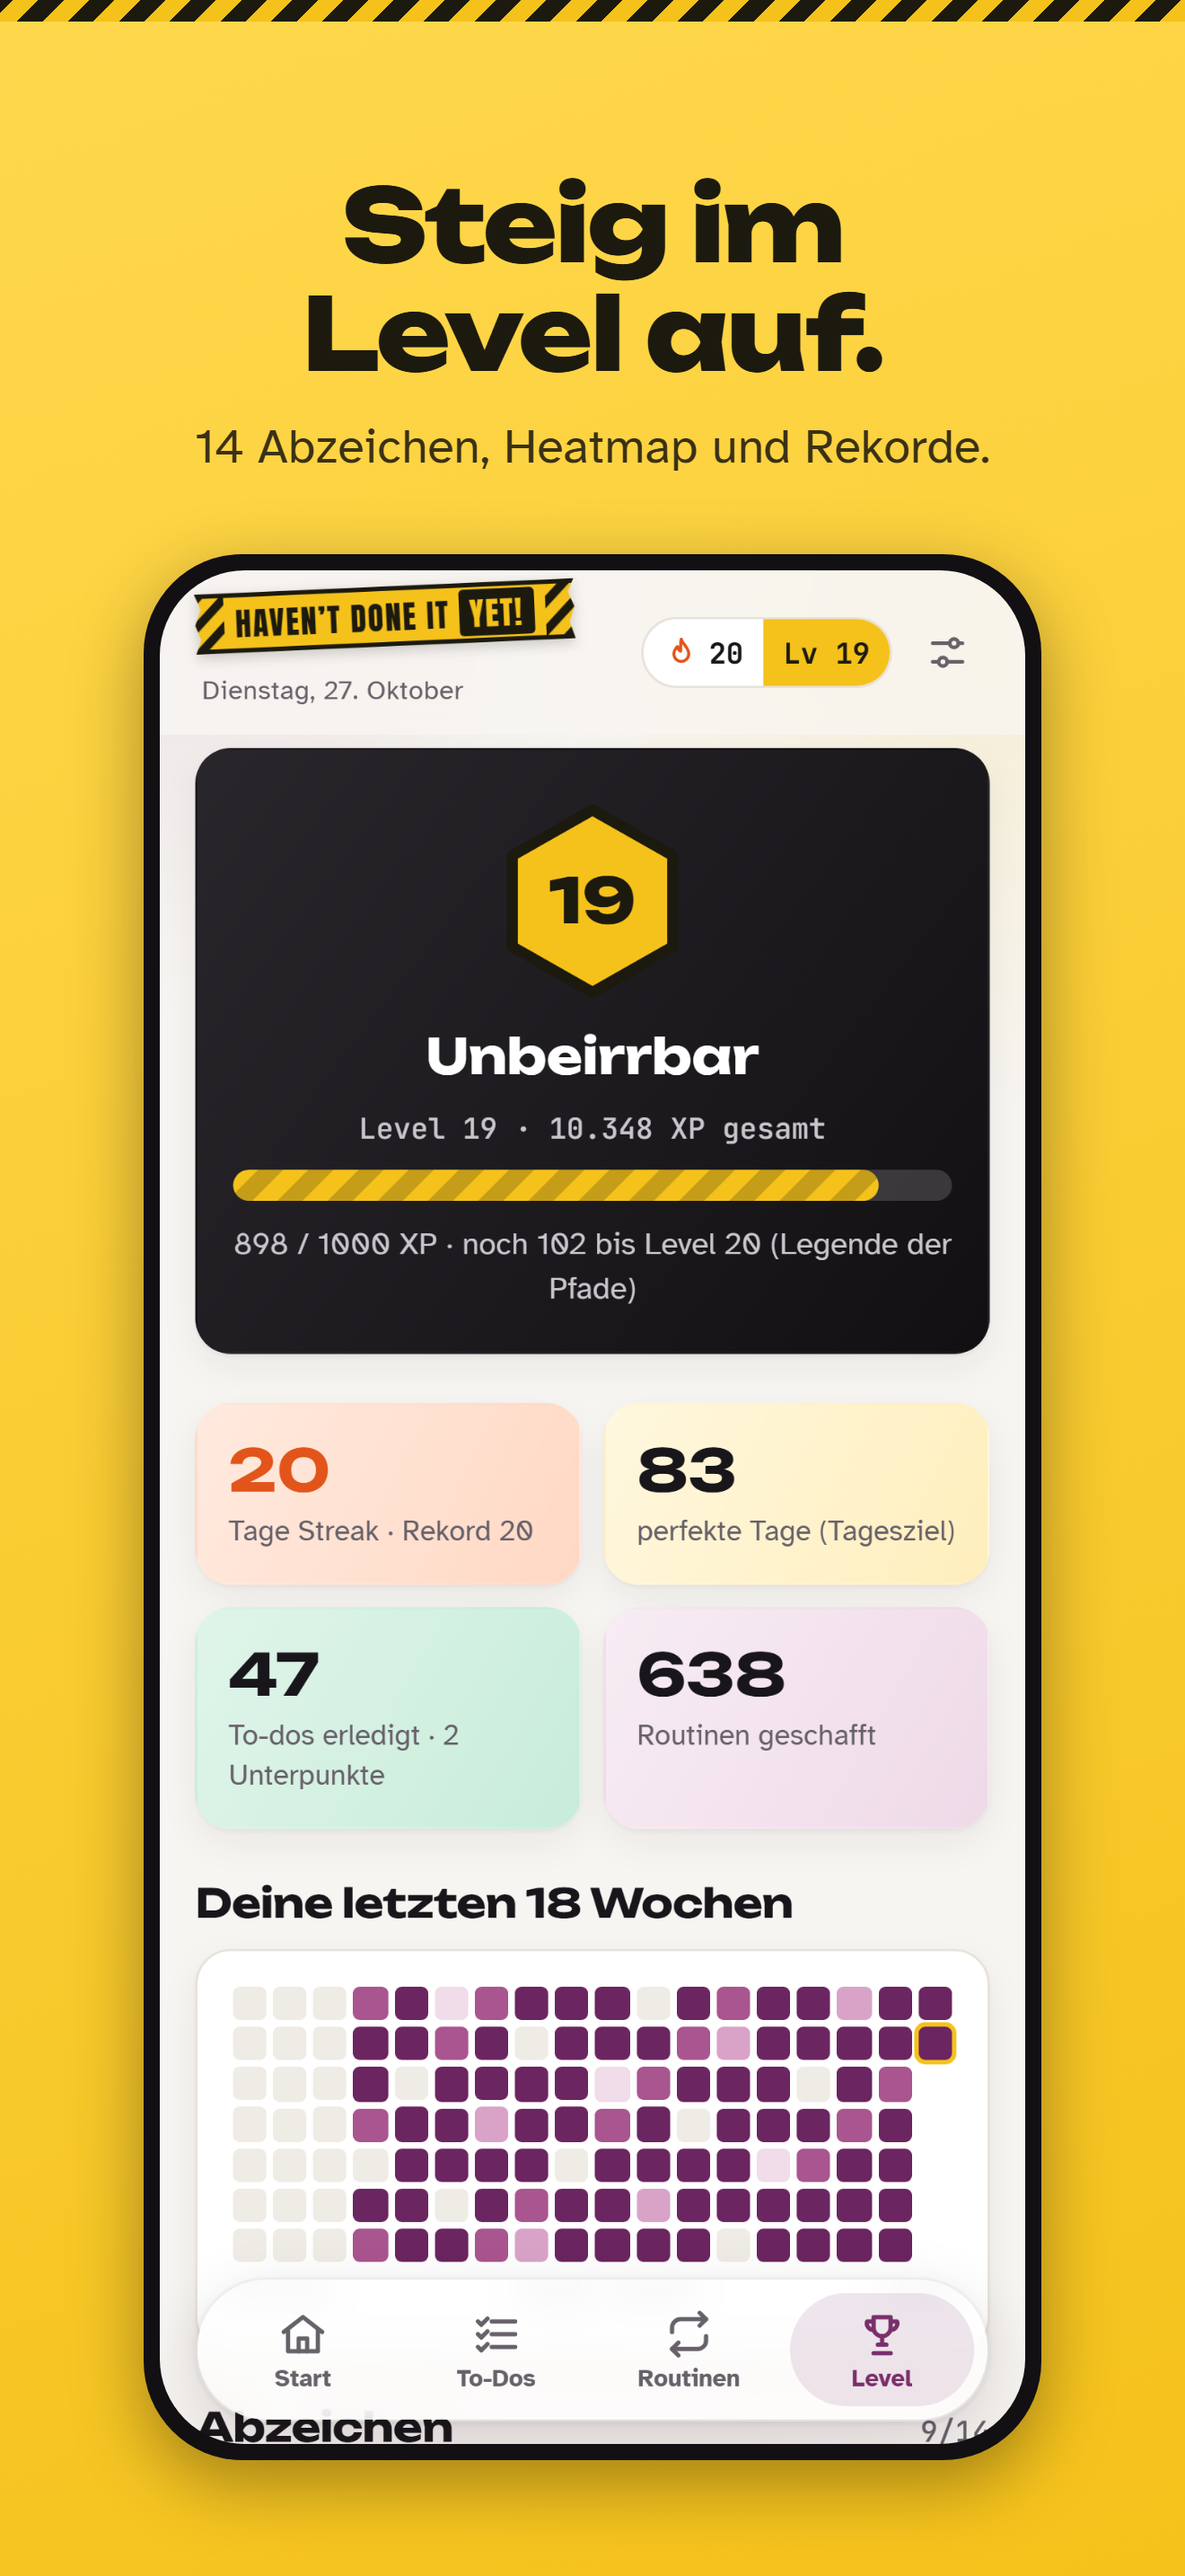
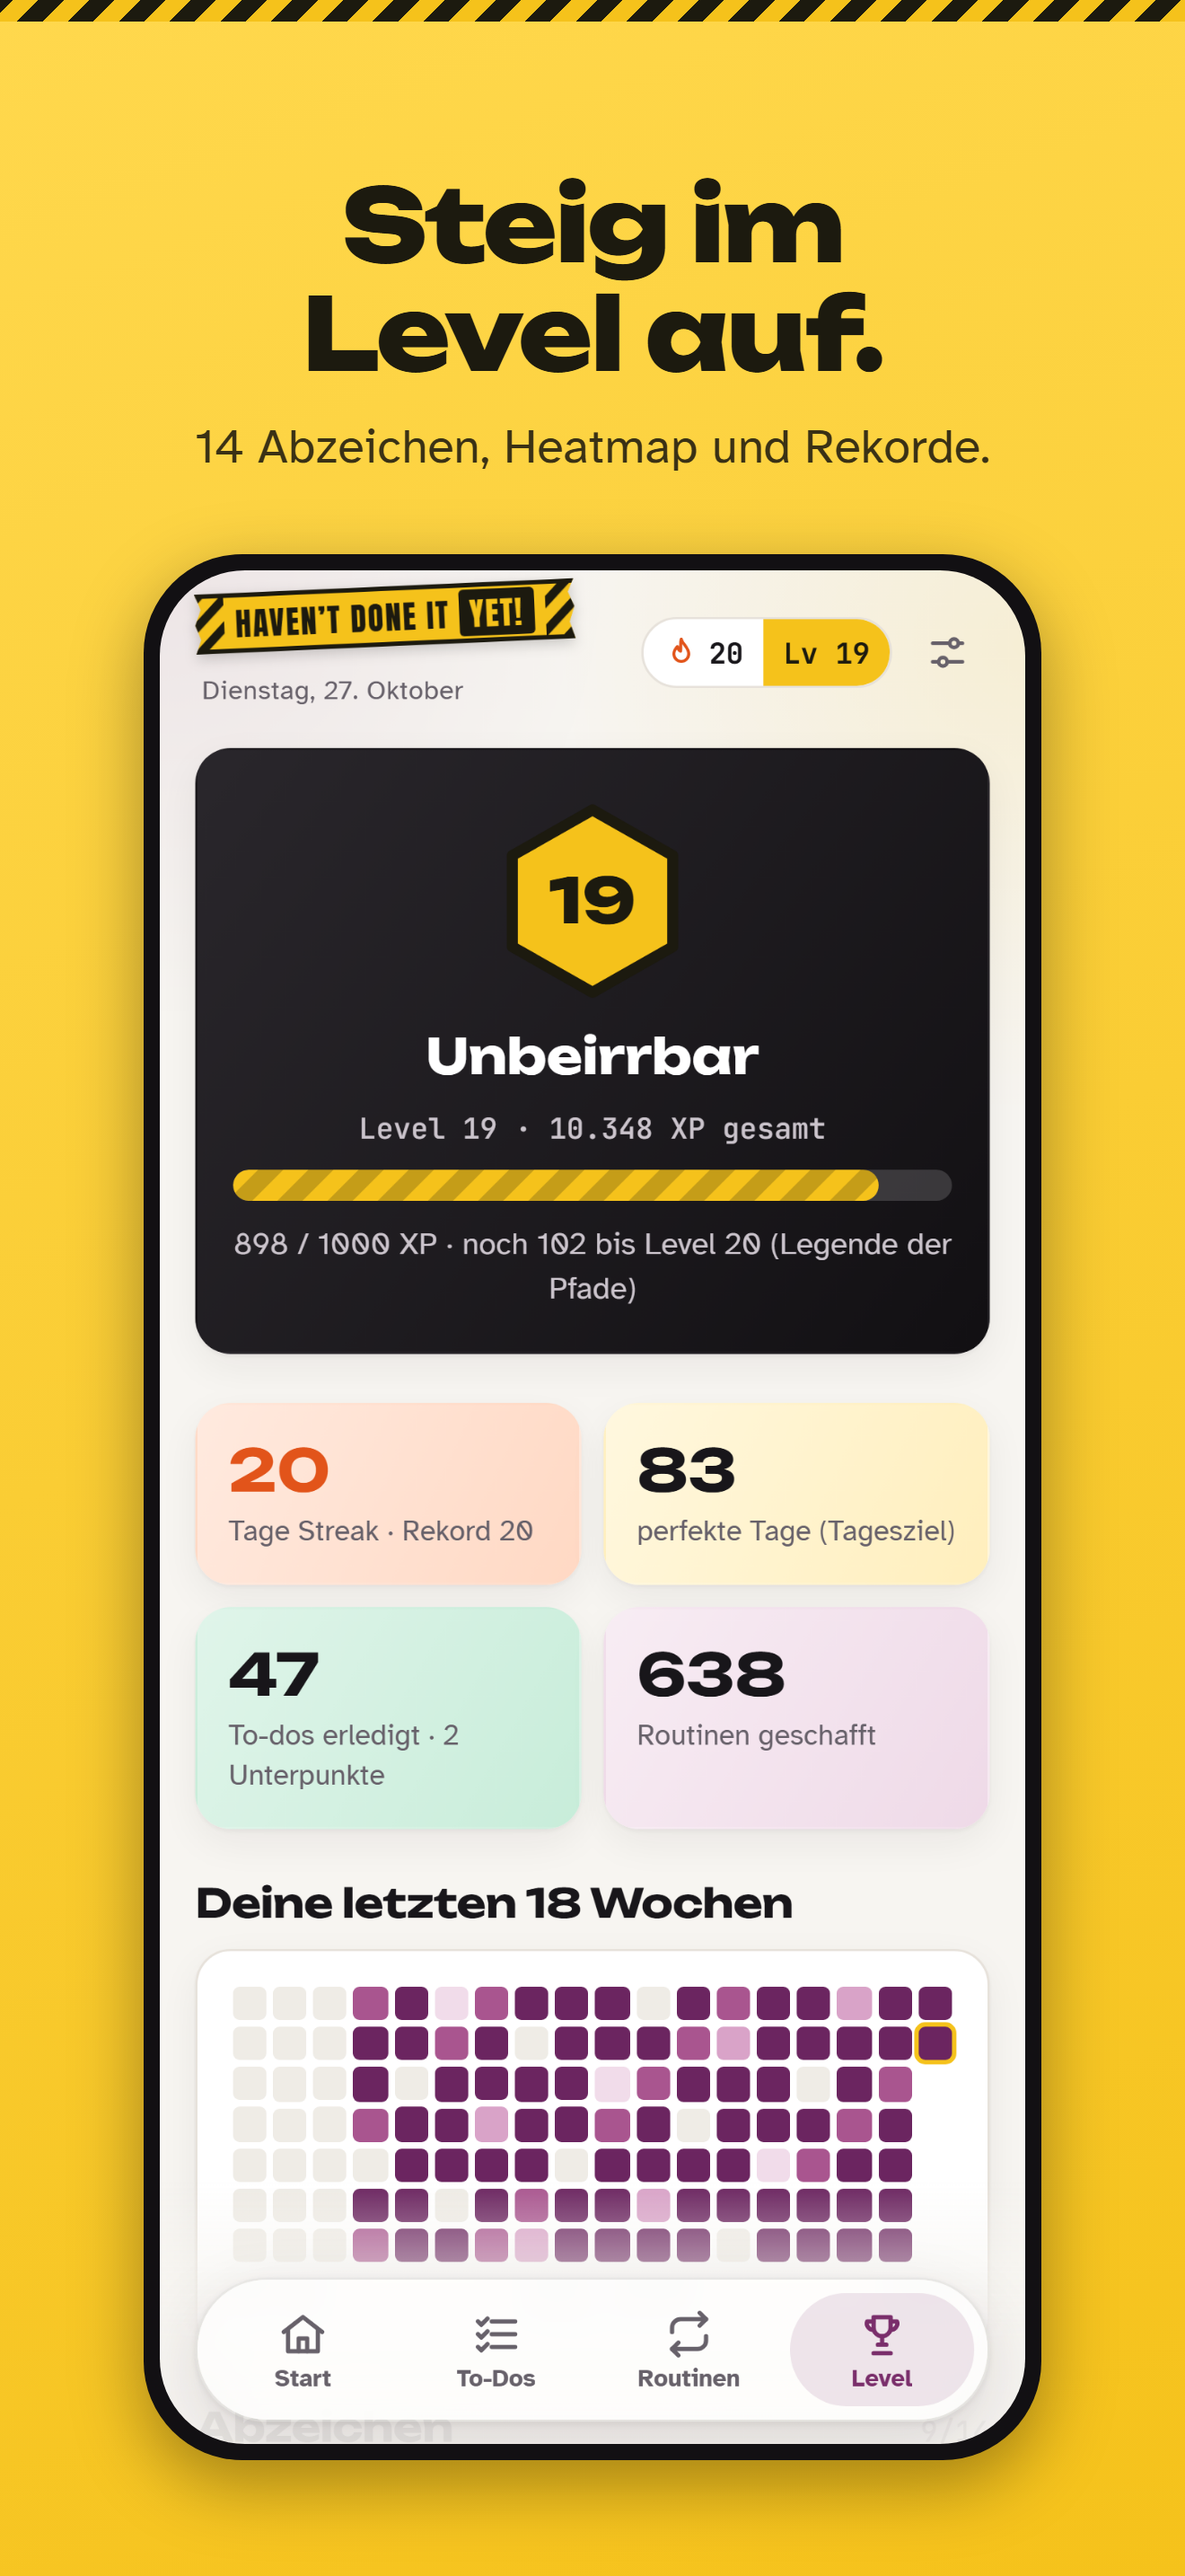
UI aufpoliert: klare Kopfleiste, Ausblendung unten, illustrierte leere Listen
- Die Kopfleiste ist im Ruhezustand klar und wird erst beim Scrollen
  milchig mit feiner Linie.
- Inhalte blenden über der schwebenden Tab-Leiste weich aus.
- Leere Listen zeigen eine Checkliste mit Warnband und zentrierten Text.
- Store-Screenshots neu erzeugt.

Changed region(s): [[0.2795, 0.8379, 0.7765, 0.8999], [0.1553, 0.931, 0.3727, 0.962]]

diff --git a/src/features/shell/Shell.tsx b/src/features/shell/Shell.tsx
@@ -1,7 +1,9 @@
+import { LinearGradient } from 'expo-linear-gradient';
 import { router, usePathname } from 'expo-router';
-import type { ReactNode } from 'react';
+import { useEffect, type ReactNode } from 'react';
 import { useTranslation } from 'react-i18next';
-import { Pressable, ScrollView, View } from 'react-native';
+import { Pressable, StyleSheet, View } from 'react-native';
+import Animated, { Extrapolation, interpolate, useAnimatedScrollHandler, useAnimatedStyle } from 'react-native-reanimated';
 import { useSafeAreaInsets } from 'react-native-safe-area-context';
 import { useStore } from '../../data/AppStore';
 import { headerDate } from '../../i18n/format';
@@ -11,10 +13,17 @@ import { Glass, TapeLogo } from '../../ui/graphics';
 import { Icon, type IconName } from '../../ui/Icon';
 import { useSheet } from '../../ui/overlays';
 import { IconButton } from '../../ui/primitives';
+import { pageScroll } from '../../ui/scroll';
 import { T } from '../../ui/Text';
 import { SettingsSheet } from '../settings/SettingsSheet';
 
 export const TOPBAR_H = 74;
+
+/** '#RRGGBB' with alpha, so fades end in the page color instead of transparent black. */
+function alpha(hex: string, a: number) {
+  const n = parseInt(hex.slice(1, 7), 16);
+  return `rgba(${n >> 16},${(n >> 8) & 255},${n & 255},${a})`;
+}
 
 export const TABS: { href: '/' | '/todos' | '/routines' | '/level'; key: string; icon: IconName }[] = [
   { href: '/', key: 'home', icon: 'home' },
@@ -30,8 +39,13 @@ export function TopBar() {
   const { stats, today } = useStore();
   const sheet = useSheet();
   const cold = stats.streak === 0;
+  // Clear at rest, frosted with a hairline as soon as content slides under the bar.
+  const glassStyle = useAnimatedStyle(() => ({ opacity: interpolate(pageScroll.value, [0, 24], [0, 1], Extrapolation.CLAMP) }));
   return (
-    <Glass tone="top" style={{ position: 'absolute', top: 0, left: 0, right: 0, paddingTop: insets.top, zIndex: 20 }}>
+    <View style={{ position: 'absolute', top: 0, left: 0, right: 0, paddingTop: insets.top, zIndex: 20 }}>
+      <Animated.View pointerEvents="none" style={[StyleSheet.absoluteFill, glassStyle]}>
+        <Glass tone="top" style={[StyleSheet.absoluteFill, { borderBottomWidth: 1, borderColor: c.glassLine }]} />
+      </Animated.View>
       <View
         style={{
           height: TOPBAR_H,
@@ -71,7 +85,7 @@ export function TopBar() {
           <IconButton icon="sliders" label={t('top.settings')} onPress={() => sheet.open((close) => <SettingsSheet close={close} />, t('settings.title'))} />
         </View>
       </View>
-    </Glass>
+    </View>
   );
 }
 
@@ -116,10 +130,19 @@ export function TabBar() {
 
 /** Scrollable page column (max 600 px) under the glass bars, with an optional floating add button. */
 export function Screen({ children, fab }: { children: ReactNode; fab?: { label: string; a11y: string; onPress: () => void } }) {
+  const { c } = useTheme();
   const insets = useSafeAreaInsets();
+  const onScroll = useAnimatedScrollHandler((e) => {
+    pageScroll.value = e.contentOffset.y;
+  });
+  useEffect(() => {
+    pageScroll.value = 0;
+  }, []);
   return (
     <View style={{ flex: 1 }}>
-      <ScrollView
+      <Animated.ScrollView
+        onScroll={onScroll}
+        scrollEventThrottle={16}
         keyboardShouldPersistTaps="handled"
         contentContainerStyle={{
           width: '100%',
@@ -132,7 +155,14 @@ export function Screen({ children, fab }: { children: ReactNode; fab?: { label: 
         }}
       >
         {children}
-      </ScrollView>
+      </Animated.ScrollView>
+      {/* Content fades out above the floating tab bar instead of being cut off behind it. */}
+      <LinearGradient
+        pointerEvents="none"
+        colors={[alpha(c.bg, 0), alpha(c.bg, 0.94)]}
+        locations={[0, 0.6]}
+        style={{ position: 'absolute', left: 0, right: 0, bottom: 0, height: 118 + insets.bottom }}
+      />
       {fab ? <Fab {...fab} /> : null}
     </View>
   );

diff --git a/src/ui/graphics.tsx b/src/ui/graphics.tsx
@@ -2,7 +2,7 @@ import { BlurView } from 'expo-blur';
 import { useEffect, useId, useState, type ReactNode } from 'react';
 import { Platform, StyleSheet, View, useWindowDimensions, type StyleProp, type ViewStyle } from 'react-native';
 import Animated, { useAnimatedStyle, useReducedMotion, useSharedValue, withTiming } from 'react-native-reanimated';
-import Svg, { Circle, ClipPath, Defs, Ellipse, G, Pattern, Polygon, RadialGradient, Rect, Stop } from 'react-native-svg';
+import Svg, { Circle, ClipPath, Defs, Ellipse, G, Path, Pattern, Polygon, RadialGradient, Rect, Stop } from 'react-native-svg';
 import { useTheme } from '../theme/ThemeProvider';
 import { fonts } from '../theme/tokens';
 import { T } from './Text';
@@ -46,6 +46,35 @@ export function HazardStripes({ width, height, a, b, band = 9, gap }: { width: n
         </Pattern>
       </Defs>
       <Rect x={0} y={0} width="100%" height={height} fill={`url(#${id})`} />
+    </Svg>
+  );
+}
+
+/** Empty-state picture: a checklist with one tick, crossed by warning tape. `ground` matches the card behind it. */
+export function EmptyArt({ ground, width = 140 }: { ground?: string; width?: number }) {
+  const { c } = useTheme();
+  const id = 'et' + useId().replace(/:/g, '');
+  const rows = [22, 37];
+  return (
+    <Svg width={width} height={(width * 90) / 140} viewBox="0 0 140 90" accessibilityElementsHidden importantForAccessibility="no-hide-descendants">
+      <Defs>
+        <Pattern id={id} patternUnits="userSpaceOnUse" width={12} height={12} patternTransform="rotate(45)">
+          <Rect x={0} y={0} width={6} height={12} fill="#F5C21B" />
+          <Rect x={6} y={0} width={6} height={12} fill="#1C1A0F" />
+        </Pattern>
+      </Defs>
+      <Rect x={38} y={6} width={64} height={78} rx={10} fill={ground ?? c.surface} stroke={c.ink} strokeWidth={2.5} />
+      {rows.map((y, i) => (
+        <G key={y}>
+          <Rect x={48} y={y - 5} width={11} height={11} rx={3} fill={i === 0 ? c.hazard : 'none'} stroke={c.ink} strokeWidth={2} />
+          {i === 0 ? <Path d={`M50.5 ${y + 0.5} l2.6 2.6 l4.6 -5`} fill="none" stroke={c.hazardInk} strokeWidth={2} strokeLinecap="round" strokeLinejoin="round" /> : null}
+          <Rect x={64} y={y - 2} width={i === 0 ? 28 : 22} height={4.5} rx={2.25} fill={c.lineStrong} />
+        </G>
+      ))}
+      <G transform="rotate(-11 70 62)">
+        <Rect x={10} y={55} width={120} height={15} fill={`url(#${id})`} />
+        <Rect x={10} y={55} width={120} height={15} fill="none" stroke="#1C1A0F" strokeWidth={1.5} />
+      </G>
     </Svg>
   );
 }
@@ -234,7 +263,7 @@ export function Backdrop() {
 /* ---------- glass ---------- */
 
 /** Translucent surface with blur behind it. Android gets the opaque fallback (blur there is experimental). */
-export function Glass({ tone, style, children }: { tone: 'bar' | 'top'; style?: StyleProp<ViewStyle>; children: ReactNode }) {
+export function Glass({ tone, style, children }: { tone: 'bar' | 'top'; style?: StyleProp<ViewStyle>; children?: ReactNode }) {
   const { c, dark } = useTheme();
   const canBlur = Platform.OS !== 'android';
   const bg = canBlur ? (tone === 'bar' ? c.glass : c.glassTop) : c.glassSolid;

diff --git a/src/ui/primitives.tsx b/src/ui/primitives.tsx
@@ -4,6 +4,7 @@ import { Pressable, StyleSheet, View, type PressableProps, type StyleProp, type 
 import Animated, { useAnimatedStyle, useReducedMotion, useSharedValue, withTiming } from 'react-native-reanimated';
 import { OnBlack, useTheme } from '../theme/ThemeProvider';
 import { fonts, radius, tintColors, type Tint } from '../theme/tokens';
+import { EmptyArt } from './graphics';
 import { Icon, type IconName } from './Icon';
 import { T } from './Text';
 
@@ -370,12 +371,15 @@ export function SectionHead({ title, right }: { title: string; right?: ReactNode
 export function Empty({ title, text, children }: { title: string; text: string; children?: ReactNode }) {
   const { c } = useTheme();
   return (
-    <View style={{ gap: 12, padding: 20, borderWidth: 1.5, borderStyle: 'dashed', borderColor: c.lineStrong, borderRadius: radius.r }}>
-      <T v="bold">{title}</T>
-      <T v="body" muted style={{ fontSize: 15 }}>
+    <View style={{ alignItems: 'center', gap: 10, paddingHorizontal: 20, paddingTop: 18, paddingBottom: 22, backgroundColor: c.surface, borderWidth: 1, borderColor: c.line, borderRadius: radius.r, boxShadow: c.shadow }}>
+      <EmptyArt ground={c.surface} width={150} />
+      <T v="h2" style={{ textAlign: 'center' }}>
+        {title}
+      </T>
+      <T v="body" muted style={{ fontSize: 15, textAlign: 'center', maxWidth: 420 }}>
         {text}
       </T>
-      {children}
+      {children ? <View style={{ alignSelf: 'stretch', alignItems: 'center', marginTop: 4 }}>{children}</View> : null}
     </View>
   );
 }

diff --git a/src/features/routines/RoutinesScreen.tsx b/src/features/routines/RoutinesScreen.tsx
@@ -67,7 +67,7 @@ export default function RoutinesScreen() {
         </View>
       ) : (
         <Empty title={t(`routines.empty.${scope}`)} text={t('routines.emptyText')}>
-          <View style={{ flexDirection: 'row', flexWrap: 'wrap', gap: 8 }}>
+          <View style={{ flexDirection: 'row', flexWrap: 'wrap', justifyContent: 'center', gap: 8 }}>
             {SUGGESTIONS.map((s) => {
               const title = t(`routines.suggest.${s.key}`);
               return (

diff --git a/src/ui/scroll.ts b/src/ui/scroll.ts
@@ -1,0 +1,4 @@
+import { makeMutable } from 'react-native-reanimated';
+
+/** Scroll offset of the visible page. The top bar shows its frosted glass only once content scrolls under it. */
+export const pageScroll = makeMutable(0);
